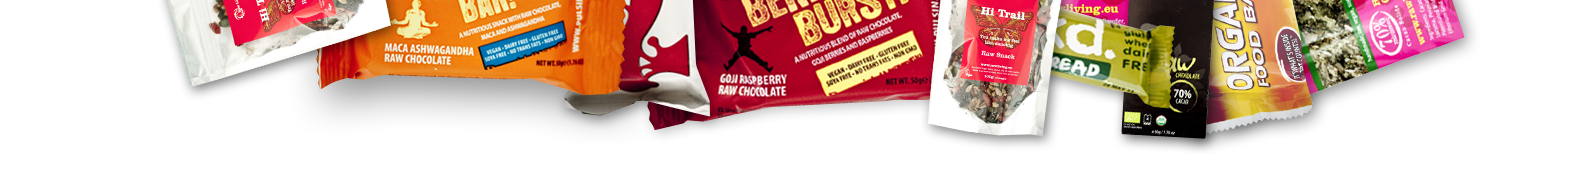
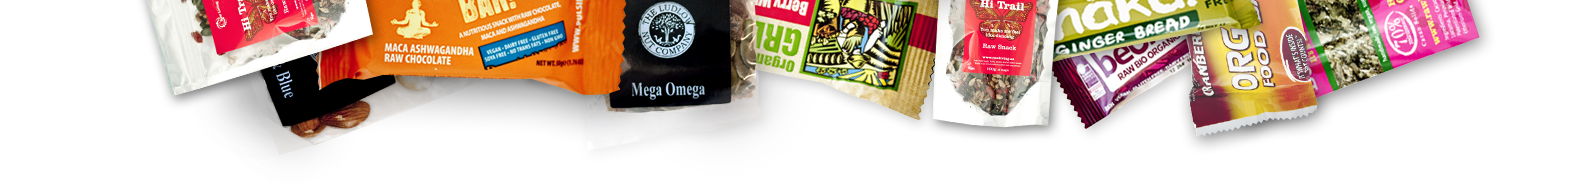
Updated snack photos and holding page text

diff --git a/app/assets/stylesheets/application.css b/app/assets/stylesheets/application.css
@@ -75,7 +75,7 @@ body {
 }
 
 .healthy-snacking-made-easier {
-	height: 300px;
+	height: 260px;
 	position: relative;
 	background: url(/assets/healthy-snacking-made-easier.png) no-repeat 0 0; 
 }
@@ -83,7 +83,7 @@ body {
   display: none;
 }
 .holding-intro {
-  font-size: 16px;
+  font-size: 17px;
   line-height: 1.47;
   width: 380px;
   display: block;
